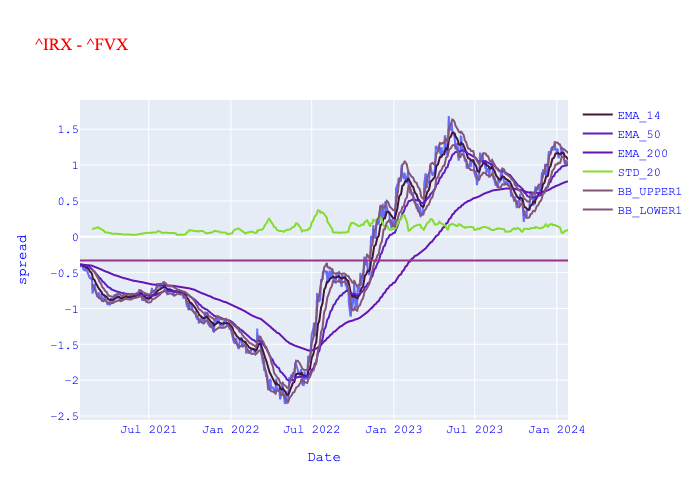
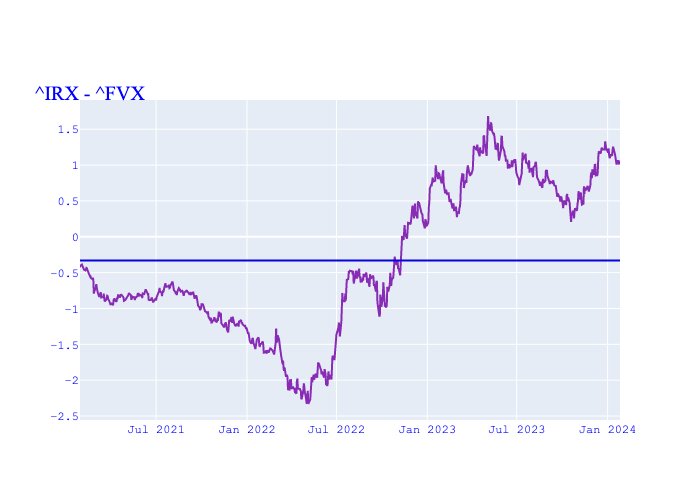
feat : fixing bugs
- in utilities. import excel
- trading indicator
- spread class

diff --git a/Code/spread.py b/Code/spread.py
@@ -58,9 +58,10 @@ class Bond_Spread():
 		
 		self.long_duration_bond = long_duration_bond
 		self.short_duration_bond = short_duration_bond
-		self.data =  self.retrieve_data(start_date,end_date, years)  if data == None else utilities.import_excel_data(data, start_date=start_date, end_date = end_date)
+		self.data =  self.retrieve_data(start_date,end_date, years)  if data == None else utilities.import_excel_data(data, start_date=start_date, end_date = end_date,years = years)
 		self.start_date = self.data.index[0] if start_date == None else start_date
 		self.end_date = self.data.index[-1] if end_date == None else end_date
+		self.label = f'{self.long_duration_bond} - {self.short_duration_bond}'
 
 		# Derived features
 		self.avg_spread = float()
@@ -81,8 +82,7 @@ class Bond_Spread():
 			self.trading_indicators.append(field)	
 			
 	def create_figure(self,trading_indicators):
-		label = f'{self.long_duration_bond} - {self.short_duration_bond}'
-		self.figure = plotting_lib.create_figure(self.data, label, 'Date','spread')
+		self.figure = plotting_lib.create_figure(self.data, self.label,'spread')
 		self.figure = plotting_lib.adding_horizontal_line(self.figure, self.avg_spread)
 		for ind in trading_indicators:
 			self.figure = plotting_lib.adding_line(self.figure, self.data, ind)
@@ -95,7 +95,7 @@ class Bond_Spread():
 		plotting_lib.plot(self.figure)
 
 	def plotting_yield(self):
-		self.figure = plotting_lib.create_figure(self.data,'yield',self.long_duration_bond)
+		self.figure = plotting_lib.create_figure(self.data,self.label,self.long_duration_bond)
 		self.figure = plotting_lib.adding_line(self.figure, self.data, self.short_duration_bond)
 		plotting_lib.plot(self.figure)
 
@@ -134,6 +134,7 @@ class Bond_Spread_return(Bond_Spread):
 				          years)
 
 		self.data = Bond_Spread_return.compute_return(self.data)
+		self.label = self.label + '_return'
 
 
 

diff --git a/main.py b/main.py
@@ -36,22 +36,37 @@ print(GetFacebookInformation.info.history(start=startDate, end=endDate))
 #label1 = '5Y - 2Y'
 bond_tickers = ['^IRX', '^FVX']
 
-spread = Bond_Spread(data = './Input/data.csv',
+spread = Bond_Spread_return(data = './Input/data.csv',
 				 long_duration_bond  = bond_tickers[0],
 				 short_duration_bond= bond_tickers[1],
-				 years = 3)
-spread.plotting_yield()
+				 years = 1)
 spread.compute_spread()
+spread.plotting()
+'''
 spread.apply_trading_indicator('EMA' ,14)
 spread.apply_trading_indicator('EMA' ,50)
 spread.apply_trading_indicator('EMA' ,200)
 spread.apply_trading_indicator('STD' ,20)
 
-spread.apply_trading_indicator('Bollinger_Bands' )
+spread.apply_trading_indicator('Bollinger_Bands' , 'EMA_14', 'STD_20')
 #	def Bollinger_Bands(price_data : pd.DataFrame(), num_std : list[int] = [1], column = 'spread', mean_column = 'EMA', std_column = 'STD'):
+'''
 
+spread = Bond_Spread(data = './Input/data.csv',
+				 long_duration_bond  = bond_tickers[0],
+				 short_duration_bond= bond_tickers[1],
+				 years = 3)
+spread.compute_spread()
 spread.plotting()
 print(spread.data)
+
+
+
+# Define bond tickers
+# ^IRX is the 13 Week US Treasury Bill
+# ^FVX is the 5-Year US Treasury
+# ^TNX is the 10-Year US Treasury
+# ^TYX is the 30-Year US Treasury
 
 
 

diff --git a/Code/utilities.py b/Code/utilities.py
@@ -2,6 +2,8 @@ import os
 from Code.debugging_method import write_log
 from Constant import PATH_folder
 import pandas as pd
+import datetime as dt
+
 
 def create_folder():
 	# ---------- Create folder -----------
@@ -12,7 +14,7 @@ def create_folder():
 
 
 # Method to read bond data from an Excel file
-def import_excel_data(file_path, start_date = None , end_date = None):
+def import_excel_data(file_path, start_date = None , end_date = None, years : int = None):
 	
 	if ':' in file_path:
 		file_path,sheet_name = file_path.split(':')
@@ -23,11 +25,15 @@ def import_excel_data(file_path, start_date = None , end_date = None):
   		df = pd.read_csv(file_path)
 	else:	
 		df = pd.read_excel(file_path, sheet_name=sheet_name)
+	df['Date'] = pd.to_datetime(df['Date'])	
 	df.sort_values(by='Date', ignore_index= True,inplace=True)
-    
-	start_date = df.loc[0,'Date']if start_date == None else start_date
 	end_date = df.loc[df.shape[0]-1 ,'Date'] if end_date == None else end_date 
-    
+
+	if years != None :
+		start_date = end_date- dt.timedelta(days = years*365)
+	else:
+		
+		start_date = df.loc[0,'Date'] if start_date == None else start_date
 	# filter data to match our choosen date range
 	filtered_df = df[(df['Date'] >= start_date) & (df['Date'] <= end_date)]
 	

diff --git a/Code/Trading_Indicator_Class.py b/Code/Trading_Indicator_Class.py
@@ -47,10 +47,10 @@ class Trading_Indicator():
     		Compute Bollinger Bands as a multiple of number of standard deviations specified by num_std hyper-parameter	
     	'''	
 		field = []
-		print(f'Bollinger_Bands {ema_col} - {std_col}')
+		print(f'Bollinger_Bands {mean_column} - {std_column}')
 		for i in num_std:
-			price_data[f'BB_UPPER{i}'] = price_data[ema_col] +  i*price_data[std_col] 
-			price_data[f'BB_LOWER{i}'] = price_data[ema_col] -  i*price_data[std_col] 
+			price_data[f'BB_UPPER{i}'] = price_data[mean_column] +  i*price_data[std_column] 
+			price_data[f'BB_LOWER{i}'] = price_data[mean_column] -  i*price_data[std_column] 
 			field.append((f'BB_UPPER{i}', f'BB_LOWER{i}'))
 
 		return price_data, field

diff --git a/Code/web_requests.py b/Code/web_requests.py
@@ -11,8 +11,8 @@ class Yahoo_Web():
 	def get_prices(tickers : Union[str,list], 
 					start_date :  dt.datetime = None,  
 					end_date : dt.datetime = None , 
-					years = int | None,
-					 ):
+					years = int | None):
+	
 		end_date =  dt.datetime.now() if end_date == None else end_date
 		if years != None:
 			start_date = end_date - dt.timedelta(days = years*365)
